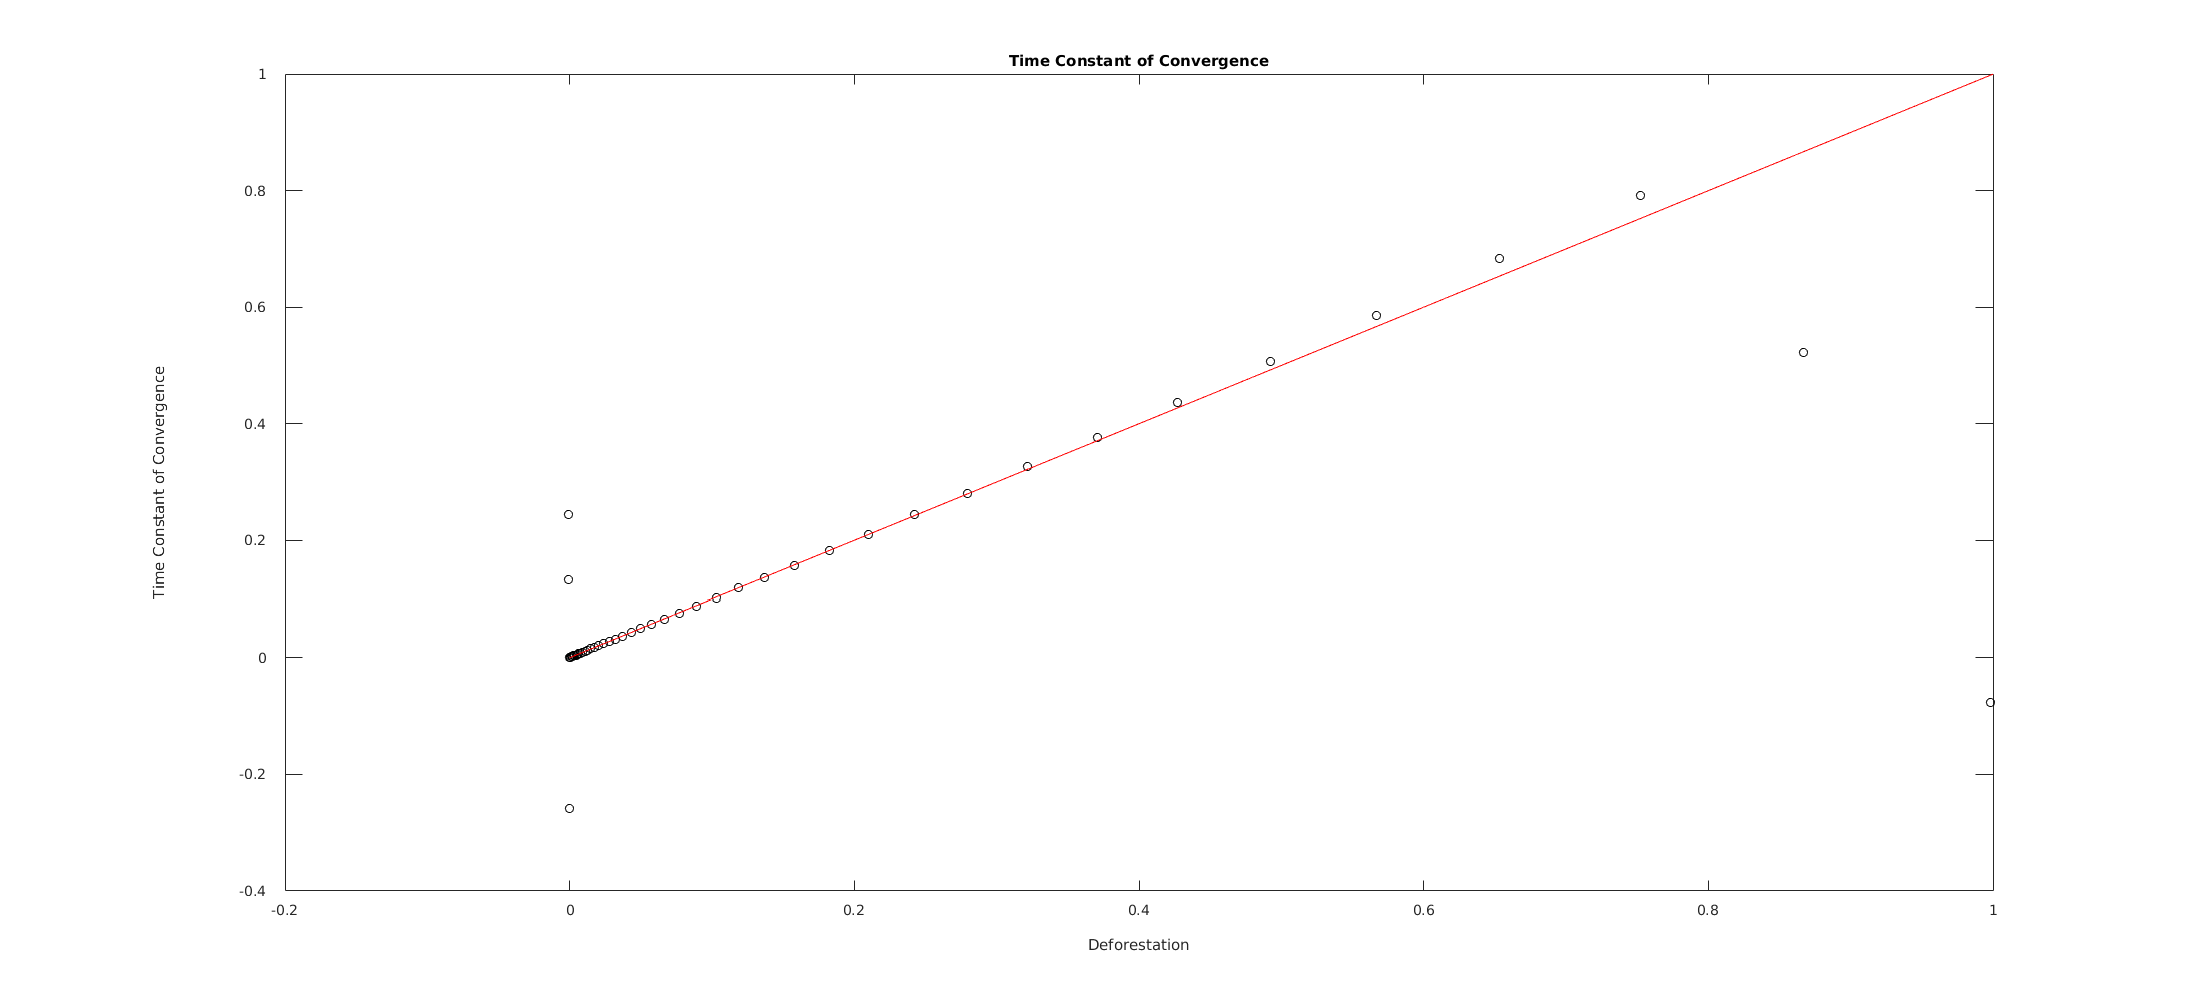
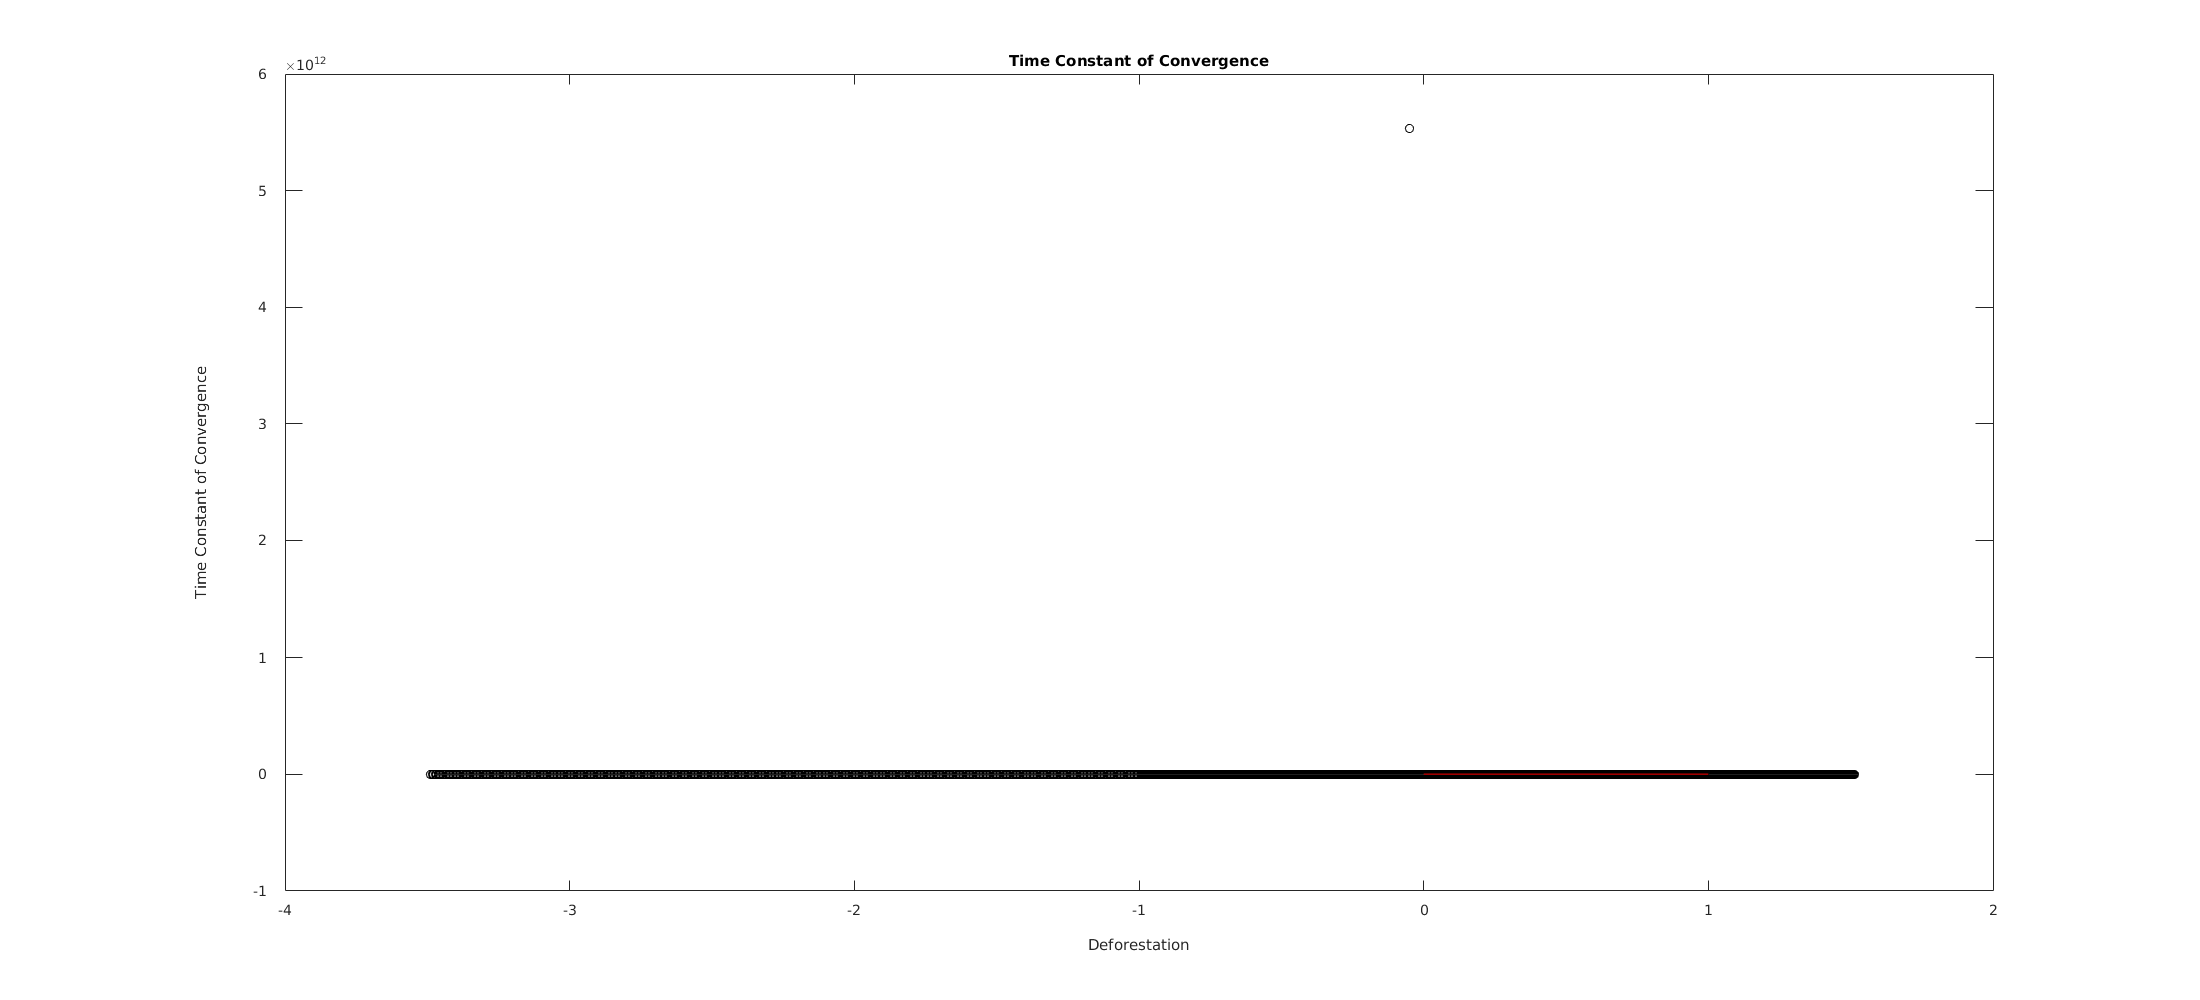
Analyze autocorrelation and variance of data with random percipitation variation

diff --git a/Matlab-Dynamics/RandomDynamics.m b/Matlab-Dynamics/RandomDynamics.m
@@ -1,0 +1,99 @@
+clear; clc;close all;
+
+h_A = 10;
+h_f = 64;
+h_P = 0.5;
+K = 90;
+m_A = 0.15;
+m_f = 0.11;
+p = 7;
+b = 0;
+r_m = 0.3;
+r_P = 1;
+
+expansionrate = @(P)  P./(h_P + P).*r_m;
+dTdt = @(P,T,deforest) expansionrate(P).*T.*(1-T./K)-m_A.*T.*h_A/(T + h_A) - m_f.*T.*h_f.^p/(h_f.^p + T.^p) - deforest;
+dPdt = @(P,T) r_P.*((P + b.*T./K) - P); % Not used for now
+
+defolength = 1e3;
+defoValues = linspace(-1.9,-0.4,defolength);
+acValues = defoValues.*0;
+variValues = defoValues.*0;
+Tconv = defoValues.*0;
+
+meanP = 1.5;
+variP = 0.1;
+
+TimeStep = 1;
+preRun = 1e4;
+runTime = 1e5;
+
+
+for defocounter = 1:defolength
+defocounter
+
+pValues = meanP + variP.*(2*rand(1,runTime)-1);
+
+T = pValues.*0;
+T(1) = 90;
+Time = pValues.*0;
+
+for ts=1:preRun
+    T(1) = T(1) + TimeStep*dTdt(pValues(1),T(1),defoValues(defocounter));
+end
+
+for ts=1:length(pValues)-1
+    T(ts+1) = T(ts) + TimeStep*dTdt(pValues(ts),T(ts),defoValues(defocounter));
+    Time(ts+1) = Time(ts)+TimeStep; 
+end
+
+%plot(pValues,T,'.k')
+%figure
+%plot(Time,T,'.k')
+%figure
+
+Tconv(defocounter) = T(end);
+
+T = T - mean(T);
+
+maxac = 100;
+autocorr = zeros(1,maxac+1);
+autocorrf = 1:maxac+1;
+autocorrf = autocorrf-1;
+for ac = 0:maxac
+    acs = ac+1;
+    ace = ac+runTime-maxac;
+    autocorr(ac+1) = sum(T(1:runTime-maxac).*T(acs:ace));
+end
+
+autocorr = autocorr/autocorr(1);
+
+%plot(autocorrf,autocorr)
+
+acValues(defocounter) = (1-autocorr(2));
+
+variValues(defocounter) = sum(T.^2)/runTime;
+
+end
+
+%plot(defoValues, acValues);
+%plot(defoValues, variValues);
+
+save('RandomDynamicResults_1.5_0.1v.mat','defoValues','acValues','variValues','Tconv');
+
+
+
+
+
+
+
+
+
+
+
+
+
+
+
+
+

diff --git a/Matlab-Dynamics/RandomDynamicsAuswertung.m b/Matlab-Dynamics/RandomDynamicsAuswertung.m
@@ -1,0 +1,14 @@
+clear; clc;
+close all;
+load('RandomDynamicResults_1.5_0.1v.mat');
+
+zeropoint = -0.4878899;
+
+defoValues = defoValues - zeropoint;
+
+plot(defoValues,acValues.^2)
+hold on;
+plot(-3.3:1e-3:0,0.019*(abs(-3.3:1e-3:0)).^0.9);
+
+figure
+semilogy(defoValues,variValues)

diff --git a/Matlab-Dynamics/DynamicsAuswertung.m b/Matlab-Dynamics/DynamicsAuswertung.m
@@ -1,6 +1,6 @@
 clear; clc;
 close all;
-load('DynamicResults1.5zoom.mat');
+load('DynamicResults1.5big.mat');
 
 zeropoint = -0.4878899;
 
